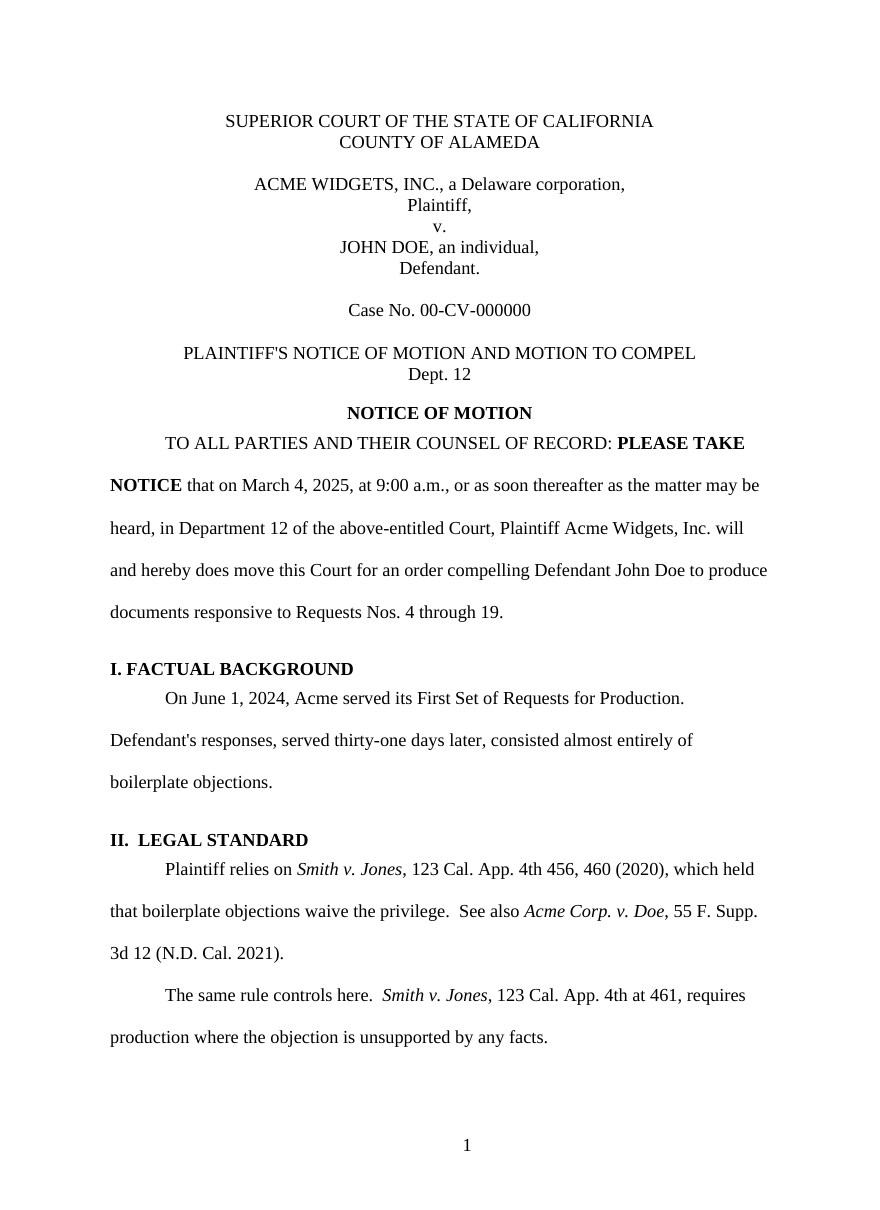
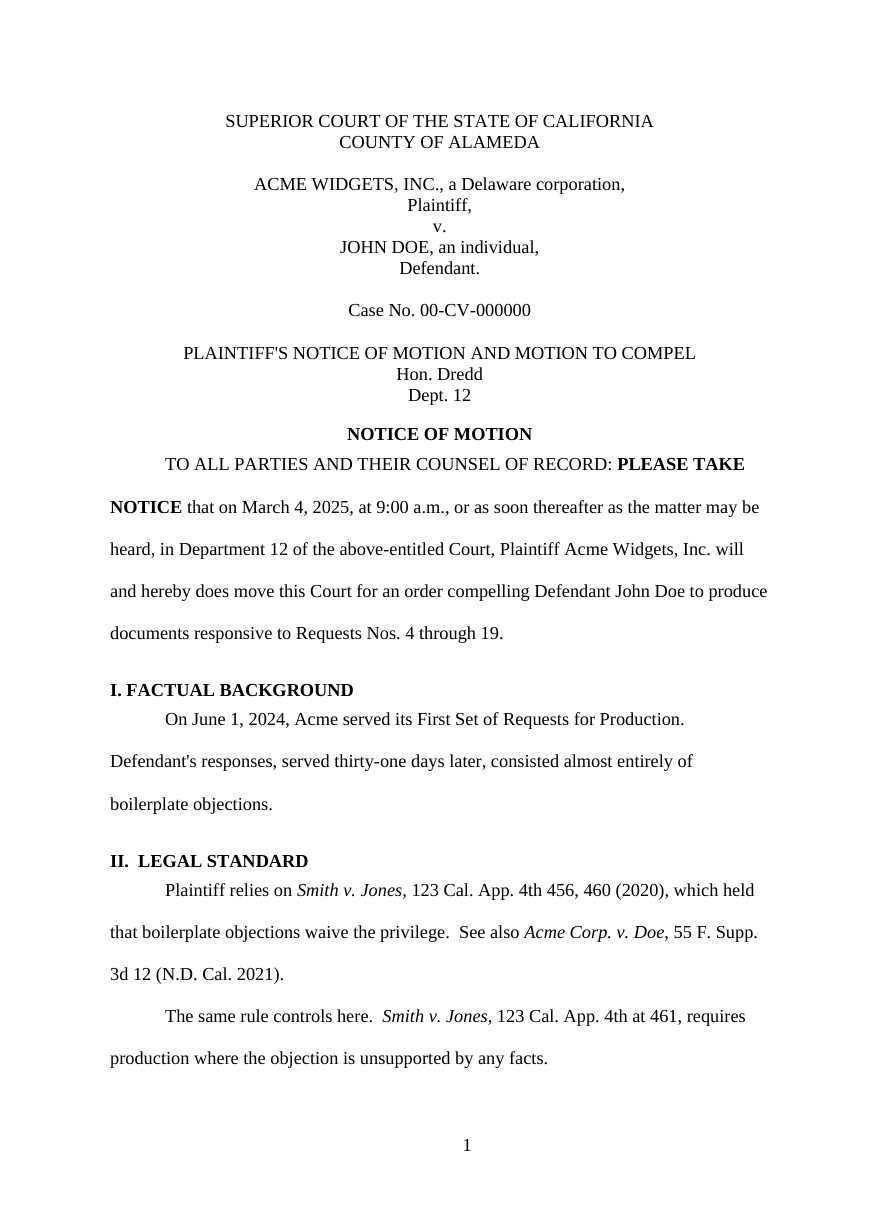
Name the demo judge Hon. Dredd and refresh the preview
Fictional character rather than a real person, so the 'no real judicial
officer depicted' claim in the fictional-content section stays true.

The caption is a two-line field again, which restores coverage of the
<w:br/> flattening path in demo.py.

Changed region(s): [[0.1227, 0.3058, 0.8591, 0.8868]]

diff --git a/demo.py b/demo.py
@@ -50,7 +50,8 @@ DOC = Document(
             ],
             title="Case No. 00-CV-000000",
             document_title="PLAINTIFF'S NOTICE OF MOTION AND MOTION TO COMPEL",
-            case_number="Dept. 12",
+            # A joke, and also the <w:br/> coverage: two caption lines in one field.
+            case_number="Hon. Dredd\nDept. 12",
         ),
         Heading(level=1, text="NOTICE OF MOTION"),
         Paragraph(

diff --git a/README.md b/README.md
@@ -673,6 +673,9 @@ synthetic:
 - Case citations such as `Smith v. Jones, 123 Cal. App. 4th 456 (2020)` are
   fabricated. Their volume and year pairings are deliberately inconsistent, so
   they cannot be mistaken for real authority.
+- The judge in the demo caption, `Hon. Dredd`, is a joke referencing the comic
+  character. No real judicial officer is depicted, and no real court is
+  associated with these documents beyond appearing in the caption template.
 - No client documents, matter files, or privileged material are included.
 
 ## License
